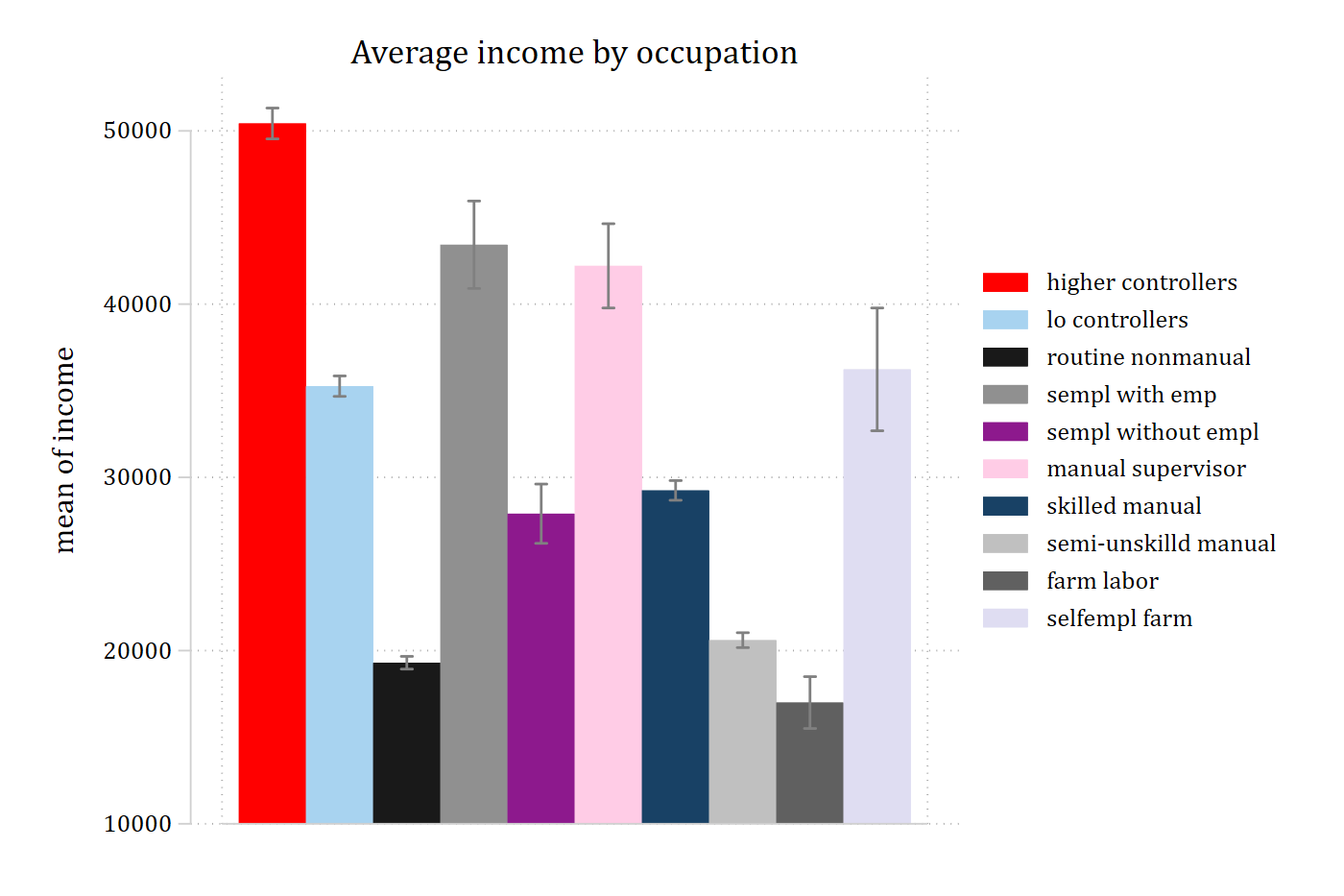
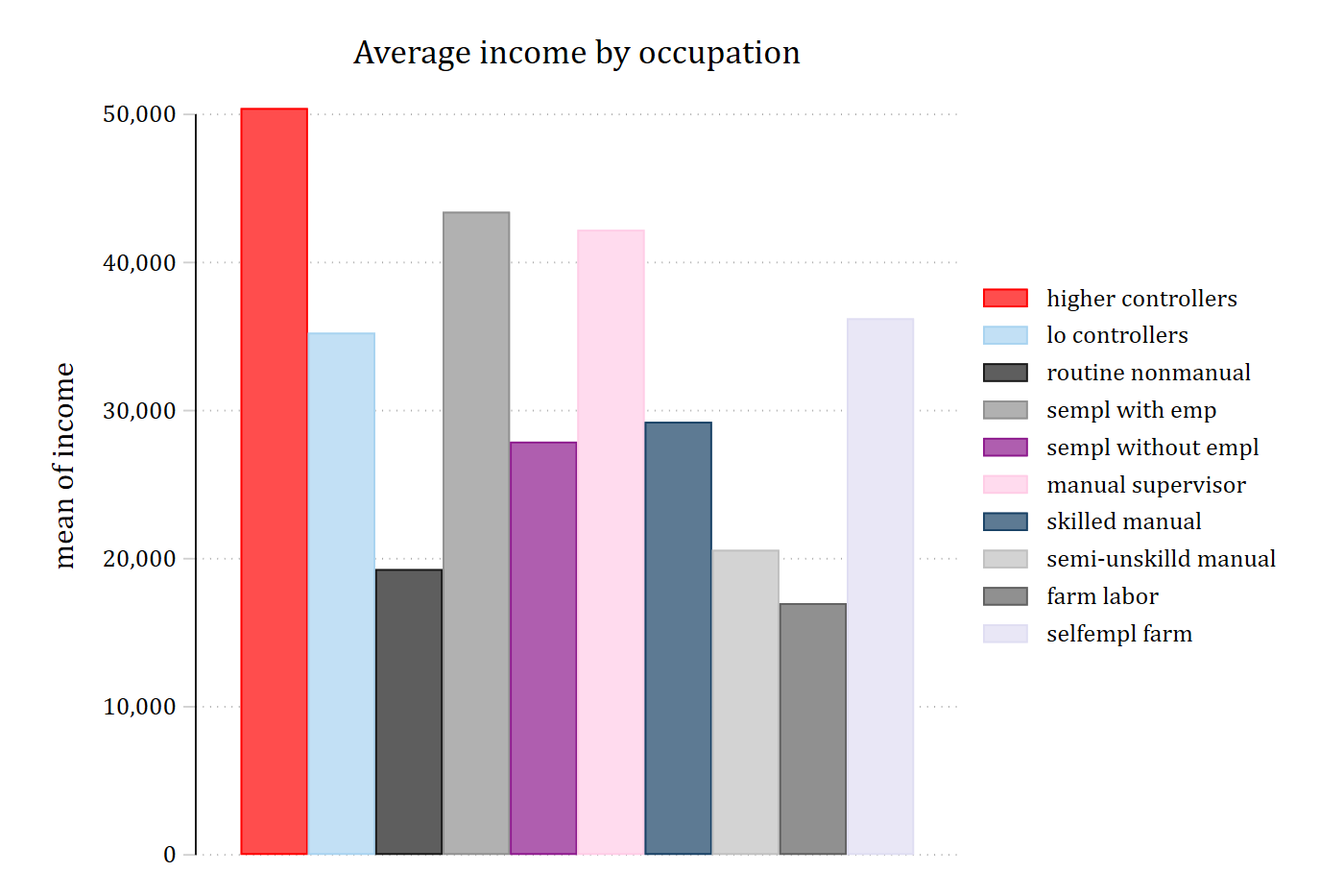
cleanplots ex updates

diff --git a/docs/cleanplots/examples.html b/docs/cleanplots/examples.html
@@ -174,7 +174,7 @@ pre > code.sourceCode > span > a:first-child::before { text-decoration: underlin
   <li><a href="#histogram" id="toc-histogram" class="nav-link active" data-scroll-target="#histogram">Histogram</a></li>
   <li><a href="#predictions-from-an-ordinal-logit-with-dashed-confidence-intervals" id="toc-predictions-from-an-ordinal-logit-with-dashed-confidence-intervals" class="nav-link" data-scroll-target="#predictions-from-an-ordinal-logit-with-dashed-confidence-intervals">Predictions from an ordinal logit with dashed confidence intervals</a></li>
   <li><a href="#predictions-at-combinations-of-two-nominal-variables" id="toc-predictions-at-combinations-of-two-nominal-variables" class="nav-link" data-scroll-target="#predictions-at-combinations-of-two-nominal-variables">Predictions at combinations of two nominal variables</a></li>
-  <li><a href="#bar-chart-with-confidence-intervals" id="toc-bar-chart-with-confidence-intervals" class="nav-link" data-scroll-target="#bar-chart-with-confidence-intervals">Bar chart with confidence intervals</a></li>
+  <li><a href="#bar-chart" id="toc-bar-chart" class="nav-link" data-scroll-target="#bar-chart">Bar chart</a></li>
   <li><a href="#residual-and-influence-plot" id="toc-residual-and-influence-plot" class="nav-link" data-scroll-target="#residual-and-influence-plot">Residual and influence plot</a></li>
   <li><a href="#lowess-plot" id="toc-lowess-plot" class="nav-link" data-scroll-target="#lowess-plot">Lowess plot</a></li>
   <li><a href="#all-ten-colors" id="toc-all-ten-colors" class="nav-link" data-scroll-target="#all-ten-colors">All ten colors</a></li>
@@ -191,7 +191,7 @@ pre > code.sourceCode > span > a:first-child::before { text-decoration: underlin
 <header id="title-block-header" class="quarto-title-block default">
 <div class="quarto-title">
 <h1 class="title">Examples</h1>
-<p class="subtitle lead">Six common graphs in cleanplots and in Stata’s default scheme</p>
+<p class="subtitle lead">Six common graphs in cleanplots and in Stata’s classic s2color scheme</p>
 </div>
 
 
@@ -208,7 +208,7 @@ pre > code.sourceCode > span > a:first-child::before { text-decoration: underlin
 </header>
 
 
-<p>Each example below draws the same graph twice: once with <code>scheme(cleanplots)</code> and once with <code>scheme(stcolor)</code>, Stata’s default scheme since Stata 18 (substitute <code>s2color</code> for the default of earlier versions). Nothing else about the commands changes. The graphs are drawn with the data from <a href="../usetdm/index.html"><code>usetdm</code></a>, so every example can be run as shown. With <code>set scheme cleanplots, perm</code> in place, the <code>scheme()</code> option is not needed.</p>
+<p>Each example below draws the same graph twice: once with <code>scheme(cleanplots)</code> and once with <code>scheme(s2color)</code>, Stata’s long-standing default scheme (Stata 18 introduced <code>stcolor</code> as the new default; <code>s2color</code> is used here because the contrast is clearer). Nothing else about the commands changes. The graphs are drawn with the data from <a href="../usetdm/index.html"><code>usetdm</code></a>, so every example can be run as shown. With <code>set scheme cleanplots, perm</code> in place, the <code>scheme()</code> option is not needed.</p>
 <section id="histogram" class="level2">
 <h2 class="anchored" data-anchor-id="histogram">Histogram</h2>
 <div class="stata-run">
@@ -219,13 +219,12 @@ pre > code.sourceCode > span > a:first-child::before { text-decoration: underlin
 <div class="code-copy-outer-scaffold"><div class="sourceCode" id="cb3"><pre class="sourceCode stata stata-cmd code-with-copy"><code class="sourceCode stata"><span id="cb3-1"><a href="#cb3-1" aria-hidden="true" tabindex="-1"></a><span class="kw">hist</span> vidtv, <span class="kw">percent</span> <span class="dv">scheme</span>(cleanplots)</span></code></pre></div><button title="Copy to Clipboard" class="code-copy-button"><i class="bi"></i></button></div>
 <pre class="stata-output"><code>(bin=36, start=0, width=4.6666667)</code></pre>
 <div class="code-copy-outer-scaffold"><div class="sourceCode" id="cb5"><pre class="sourceCode stata stata-cmd code-with-copy"><code class="sourceCode stata"><span id="cb5-1"><a href="#cb5-1" aria-hidden="true" tabindex="-1"></a><span class="kw">graph</span> <span class="kw">export</span> <span class="st">"fig/ex-hist-cleanplots.png"</span>, <span class="kw">replace</span> <span class="kw">width</span>(1400)</span></code></pre></div><button title="Copy to Clipboard" class="code-copy-button"><i class="bi"></i></button></div>
-<pre class="stata-output"><code>(file fig/ex-hist-cleanplots.png not found)
-file fig/ex-hist-cleanplots.png saved as PNG format</code></pre>
-<div class="code-copy-outer-scaffold"><div class="sourceCode" id="cb7"><pre class="sourceCode stata stata-cmd code-with-copy"><code class="sourceCode stata"><span id="cb7-1"><a href="#cb7-1" aria-hidden="true" tabindex="-1"></a><span class="kw">hist</span> vidtv, <span class="kw">percent</span> <span class="dv">scheme</span>(stcolor)</span></code></pre></div><button title="Copy to Clipboard" class="code-copy-button"><i class="bi"></i></button></div>
+<pre class="stata-output"><code>file fig/ex-hist-cleanplots.png saved as PNG format</code></pre>
+<div class="code-copy-outer-scaffold"><div class="sourceCode" id="cb7"><pre class="sourceCode stata stata-cmd code-with-copy"><code class="sourceCode stata"><span id="cb7-1"><a href="#cb7-1" aria-hidden="true" tabindex="-1"></a><span class="kw">hist</span> vidtv, <span class="kw">percent</span> <span class="dv">scheme</span>(s2color)</span></code></pre></div><button title="Copy to Clipboard" class="code-copy-button"><i class="bi"></i></button></div>
 <pre class="stata-output"><code>(bin=36, start=0, width=4.6666667)</code></pre>
-<div class="code-copy-outer-scaffold"><div class="sourceCode" id="cb9"><pre class="sourceCode stata stata-cmd code-with-copy"><code class="sourceCode stata"><span id="cb9-1"><a href="#cb9-1" aria-hidden="true" tabindex="-1"></a><span class="kw">graph</span> <span class="kw">export</span> <span class="st">"fig/ex-hist-stcolor.png"</span>, <span class="kw">replace</span> <span class="kw">width</span>(1400)</span></code></pre></div><button title="Copy to Clipboard" class="code-copy-button"><i class="bi"></i></button></div>
-<pre class="stata-output"><code>(file fig/ex-hist-stcolor.png not found)
-file fig/ex-hist-stcolor.png saved as PNG format</code></pre>
+<div class="code-copy-outer-scaffold"><div class="sourceCode" id="cb9"><pre class="sourceCode stata stata-cmd code-with-copy"><code class="sourceCode stata"><span id="cb9-1"><a href="#cb9-1" aria-hidden="true" tabindex="-1"></a><span class="kw">graph</span> <span class="kw">export</span> <span class="st">"fig/ex-hist-s2color.png"</span>, <span class="kw">replace</span> <span class="kw">width</span>(1400)</span></code></pre></div><button title="Copy to Clipboard" class="code-copy-button"><i class="bi"></i></button></div>
+<pre class="stata-output"><code>(file fig/ex-hist-s2color.png not found)
+file fig/ex-hist-s2color.png saved as PNG format</code></pre>
 </div>
 <div class="quarto-layout-panel" data-layout-ncol="2">
 <div class="quarto-layout-row">
@@ -240,8 +239,8 @@ file fig/ex-hist-stcolor.png saved as PNG format</code></pre>
 <div class="quarto-layout-cell" style="flex-basis: 50.0%;justify-content: flex-start;">
 <div class="quarto-figure quarto-figure-center">
 <figure class="figure">
-<p><img src="fig/ex-hist-stcolor.png" class="img-fluid figure-img" alt="The same histogram with Stata's default stcolor scheme."></p>
-<figcaption>stcolor</figcaption>
+<p><img src="fig/ex-hist-s2color.png" class="img-fluid figure-img" alt="The same histogram in the s2color scheme."></p>
+<figcaption>s2color</figcaption>
 </figure>
 </div>
 </div>
@@ -258,14 +257,13 @@ file fig/ex-hist-stcolor.png saved as PNG format</code></pre>
 <span id="cb13-2"><a href="#cb13-2" aria-hidden="true" tabindex="-1"></a>    <span class="bn">legend</span>(<span class="kw">order</span>(6 <span class="st">"Poor"</span> 7 <span class="st">"Fair"</span> 8 <span class="st">"Good"</span> 9 <span class="st">"Very Good"</span> 10 <span class="st">"Excellent"</span>))</span></code></pre></div><button title="Copy to Clipboard" class="code-copy-button"><i class="bi"></i></button></div>
 <pre class="stata-output"><code>Variables that uniquely identify margins: orole</code></pre>
 <div class="code-copy-outer-scaffold"><div class="sourceCode" id="cb15"><pre class="sourceCode stata stata-cmd code-with-copy"><code class="sourceCode stata"><span id="cb15-1"><a href="#cb15-1" aria-hidden="true" tabindex="-1"></a><span class="kw">graph</span> <span class="kw">export</span> <span class="st">"fig/ex-ologit-cleanplots.png"</span>, <span class="kw">replace</span> <span class="kw">width</span>(1400)</span></code></pre></div><button title="Copy to Clipboard" class="code-copy-button"><i class="bi"></i></button></div>
-<pre class="stata-output"><code>(file fig/ex-ologit-cleanplots.png not found)
-file fig/ex-ologit-cleanplots.png saved as PNG format</code></pre>
-<div class="code-copy-outer-scaffold"><div class="sourceCode" id="cb17"><pre class="sourceCode stata stata-cmd code-with-copy"><code class="sourceCode stata"><span id="cb17-1"><a href="#cb17-1" aria-hidden="true" tabindex="-1"></a>marginsplot, recastci(rline) ciopts(lpattern(<span class="kw">dash</span>) <span class="kw">color</span>(*.5)) <span class="dv">scheme</span>(stcolor) <span class="co">///</span></span>
+<pre class="stata-output"><code>file fig/ex-ologit-cleanplots.png saved as PNG format</code></pre>
+<div class="code-copy-outer-scaffold"><div class="sourceCode" id="cb17"><pre class="sourceCode stata stata-cmd code-with-copy"><code class="sourceCode stata"><span id="cb17-1"><a href="#cb17-1" aria-hidden="true" tabindex="-1"></a>marginsplot, recastci(rline) ciopts(lpattern(<span class="kw">dash</span>) <span class="kw">color</span>(*.5)) <span class="dv">scheme</span>(s2color) <span class="co">///</span></span>
 <span id="cb17-2"><a href="#cb17-2" aria-hidden="true" tabindex="-1"></a>    <span class="bn">legend</span>(<span class="kw">order</span>(6 <span class="st">"Poor"</span> 7 <span class="st">"Fair"</span> 8 <span class="st">"Good"</span> 9 <span class="st">"Very Good"</span> 10 <span class="st">"Excellent"</span>))</span></code></pre></div><button title="Copy to Clipboard" class="code-copy-button"><i class="bi"></i></button></div>
 <pre class="stata-output"><code>Variables that uniquely identify margins: orole</code></pre>
-<div class="code-copy-outer-scaffold"><div class="sourceCode" id="cb19"><pre class="sourceCode stata stata-cmd code-with-copy"><code class="sourceCode stata"><span id="cb19-1"><a href="#cb19-1" aria-hidden="true" tabindex="-1"></a><span class="kw">graph</span> <span class="kw">export</span> <span class="st">"fig/ex-ologit-stcolor.png"</span>, <span class="kw">replace</span> <span class="kw">width</span>(1400)</span></code></pre></div><button title="Copy to Clipboard" class="code-copy-button"><i class="bi"></i></button></div>
-<pre class="stata-output"><code>(file fig/ex-ologit-stcolor.png not found)
-file fig/ex-ologit-stcolor.png saved as PNG format</code></pre>
+<div class="code-copy-outer-scaffold"><div class="sourceCode" id="cb19"><pre class="sourceCode stata stata-cmd code-with-copy"><code class="sourceCode stata"><span id="cb19-1"><a href="#cb19-1" aria-hidden="true" tabindex="-1"></a><span class="kw">graph</span> <span class="kw">export</span> <span class="st">"fig/ex-ologit-s2color.png"</span>, <span class="kw">replace</span> <span class="kw">width</span>(1400)</span></code></pre></div><button title="Copy to Clipboard" class="code-copy-button"><i class="bi"></i></button></div>
+<pre class="stata-output"><code>(file fig/ex-ologit-s2color.png not found)
+file fig/ex-ologit-s2color.png saved as PNG format</code></pre>
 </div>
 <div class="quarto-layout-panel" data-layout-ncol="2">
 <div class="quarto-layout-row">
@@ -280,8 +278,8 @@ file fig/ex-ologit-stcolor.png saved as PNG format</code></pre>
 <div class="quarto-layout-cell" style="flex-basis: 50.0%;justify-content: flex-start;">
 <div class="quarto-figure quarto-figure-center">
 <figure class="figure">
-<p><img src="fig/ex-ologit-stcolor.png" class="img-fluid figure-img" alt="The same plot in the stcolor scheme."></p>
-<figcaption>stcolor</figcaption>
+<p><img src="fig/ex-ologit-s2color.png" class="img-fluid figure-img" alt="The same plot in the s2color scheme."></p>
+<figcaption>s2color</figcaption>
 </figure>
 </div>
 </div>
@@ -297,13 +295,12 @@ file fig/ex-ologit-stcolor.png saved as PNG format</code></pre>
 <div class="code-copy-outer-scaffold"><div class="sourceCode" id="cb23"><pre class="sourceCode stata stata-cmd code-with-copy"><code class="sourceCode stata"><span id="cb23-1"><a href="#cb23-1" aria-hidden="true" tabindex="-1"></a>marginsplot, <span class="kw">recast</span>(<span class="kw">scatter</span>) x(educ) <span class="dv">scheme</span>(cleanplots)</span></code></pre></div><button title="Copy to Clipboard" class="code-copy-button"><i class="bi"></i></button></div>
 <pre class="stata-output"><code>Variables that uniquely identify margins: woman educ</code></pre>
 <div class="code-copy-outer-scaffold"><div class="sourceCode" id="cb25"><pre class="sourceCode stata stata-cmd code-with-copy"><code class="sourceCode stata"><span id="cb25-1"><a href="#cb25-1" aria-hidden="true" tabindex="-1"></a><span class="kw">graph</span> <span class="kw">export</span> <span class="st">"fig/ex-pred-cleanplots.png"</span>, <span class="kw">replace</span> <span class="kw">width</span>(1400)</span></code></pre></div><button title="Copy to Clipboard" class="code-copy-button"><i class="bi"></i></button></div>
-<pre class="stata-output"><code>(file fig/ex-pred-cleanplots.png not found)
-file fig/ex-pred-cleanplots.png saved as PNG format</code></pre>
-<div class="code-copy-outer-scaffold"><div class="sourceCode" id="cb27"><pre class="sourceCode stata stata-cmd code-with-copy"><code class="sourceCode stata"><span id="cb27-1"><a href="#cb27-1" aria-hidden="true" tabindex="-1"></a>marginsplot, <span class="kw">recast</span>(<span class="kw">scatter</span>) x(educ) <span class="dv">scheme</span>(stcolor)</span></code></pre></div><button title="Copy to Clipboard" class="code-copy-button"><i class="bi"></i></button></div>
+<pre class="stata-output"><code>file fig/ex-pred-cleanplots.png saved as PNG format</code></pre>
+<div class="code-copy-outer-scaffold"><div class="sourceCode" id="cb27"><pre class="sourceCode stata stata-cmd code-with-copy"><code class="sourceCode stata"><span id="cb27-1"><a href="#cb27-1" aria-hidden="true" tabindex="-1"></a>marginsplot, <span class="kw">recast</span>(<span class="kw">scatter</span>) x(educ) <span class="dv">scheme</span>(s2color)</span></code></pre></div><button title="Copy to Clipboard" class="code-copy-button"><i class="bi"></i></button></div>
 <pre class="stata-output"><code>Variables that uniquely identify margins: woman educ</code></pre>
-<div class="code-copy-outer-scaffold"><div class="sourceCode" id="cb29"><pre class="sourceCode stata stata-cmd code-with-copy"><code class="sourceCode stata"><span id="cb29-1"><a href="#cb29-1" aria-hidden="true" tabindex="-1"></a><span class="kw">graph</span> <span class="kw">export</span> <span class="st">"fig/ex-pred-stcolor.png"</span>, <span class="kw">replace</span> <span class="kw">width</span>(1400)</span></code></pre></div><button title="Copy to Clipboard" class="code-copy-button"><i class="bi"></i></button></div>
-<pre class="stata-output"><code>(file fig/ex-pred-stcolor.png not found)
-file fig/ex-pred-stcolor.png saved as PNG format</code></pre>
+<div class="code-copy-outer-scaffold"><div class="sourceCode" id="cb29"><pre class="sourceCode stata stata-cmd code-with-copy"><code class="sourceCode stata"><span id="cb29-1"><a href="#cb29-1" aria-hidden="true" tabindex="-1"></a><span class="kw">graph</span> <span class="kw">export</span> <span class="st">"fig/ex-pred-s2color.png"</span>, <span class="kw">replace</span> <span class="kw">width</span>(1400)</span></code></pre></div><button title="Copy to Clipboard" class="code-copy-button"><i class="bi"></i></button></div>
+<pre class="stata-output"><code>(file fig/ex-pred-s2color.png not found)
+file fig/ex-pred-s2color.png saved as PNG format</code></pre>
 </div>
 <div class="quarto-layout-panel" data-layout-ncol="2">
 <div class="quarto-layout-row">
@@ -318,37 +315,36 @@ file fig/ex-pred-stcolor.png saved as PNG format</code></pre>
 <div class="quarto-layout-cell" style="flex-basis: 50.0%;justify-content: flex-start;">
 <div class="quarto-figure quarto-figure-center">
 <figure class="figure">
-<p><img src="fig/ex-pred-stcolor.png" class="img-fluid figure-img" alt="The same plot in the stcolor scheme."></p>
-<figcaption>stcolor</figcaption>
+<p><img src="fig/ex-pred-s2color.png" class="img-fluid figure-img" alt="The same plot in the s2color scheme."></p>
+<figcaption>s2color</figcaption>
 </figure>
 </div>
 </div>
 </div>
 </div>
 </section>
-<section id="bar-chart-with-confidence-intervals" class="level2">
-<h2 class="anchored" data-anchor-id="bar-chart-with-confidence-intervals">Bar chart with confidence intervals</h2>
-<p><code>cibar</code> is a user-written command (<code>ssc install cibar</code>); <code>cleanplots</code> uses its softer palette for the bars.</p>
+<section id="bar-chart" class="level2">
+<h2 class="anchored" data-anchor-id="bar-chart">Bar chart</h2>
+<p><code>cleanplots</code> uses its softer palette for the bars.</p>
 <div class="stata-run">
 <div class="code-copy-outer-scaffold"><div class="sourceCode" id="cb31"><pre class="sourceCode stata stata-cmd code-with-copy"><code class="sourceCode stata"><span id="cb31-1"><a href="#cb31-1" aria-hidden="true" tabindex="-1"></a><span class="kw">use</span> <span class="st">"https://tdmize.github.io/data/data/cda_gss"</span>, <span class="kw">clear</span></span></code></pre></div><button title="Copy to Clipboard" class="code-copy-button"><i class="bi"></i></button></div>
 <pre class="stata-output"><code>(cda_gss.dta |  GSS 1972-2021 CDA - Categorical Data Analysis | date created 2023)
 
 . </code></pre>
-<div class="code-copy-outer-scaffold"><div class="sourceCode" id="cb33"><pre class="sourceCode stata stata-cmd code-with-copy"><code class="sourceCode stata"><span id="cb33-1"><a href="#cb33-1" aria-hidden="true" tabindex="-1"></a>cibar income, over1(degree) over2(woman) graphop(<span class="dv">scheme</span>(cleanplots))</span>
+<div class="code-copy-outer-scaffold"><div class="sourceCode" id="cb33"><pre class="sourceCode stata stata-cmd code-with-copy"><code class="sourceCode stata"><span id="cb33-1"><a href="#cb33-1" aria-hidden="true" tabindex="-1"></a><span class="kw">graph</span> <span class="bn">bar</span> income, <span class="bn">over</span>(degree) <span class="bn">over</span>(woman) asyvars <span class="dv">scheme</span>(cleanplots)</span>
 <span id="cb33-2"><a href="#cb33-2" aria-hidden="true" tabindex="-1"></a><span class="kw">graph</span> <span class="kw">export</span> <span class="st">"fig/ex-bar-cleanplots.png"</span>, <span class="kw">replace</span> <span class="kw">width</span>(1400)</span></code></pre></div><button title="Copy to Clipboard" class="code-copy-button"><i class="bi"></i></button></div>
-<pre class="stata-output"><code>(file fig/ex-bar-cleanplots.png not found)
-file fig/ex-bar-cleanplots.png saved as PNG format</code></pre>
-<div class="code-copy-outer-scaffold"><div class="sourceCode" id="cb35"><pre class="sourceCode stata stata-cmd code-with-copy"><code class="sourceCode stata"><span id="cb35-1"><a href="#cb35-1" aria-hidden="true" tabindex="-1"></a>cibar income, over1(degree) over2(woman) graphop(<span class="dv">scheme</span>(stcolor))</span>
-<span id="cb35-2"><a href="#cb35-2" aria-hidden="true" tabindex="-1"></a><span class="kw">graph</span> <span class="kw">export</span> <span class="st">"fig/ex-bar-stcolor.png"</span>, <span class="kw">replace</span> <span class="kw">width</span>(1400)</span></code></pre></div><button title="Copy to Clipboard" class="code-copy-button"><i class="bi"></i></button></div>
-<pre class="stata-output"><code>(file fig/ex-bar-stcolor.png not found)
-file fig/ex-bar-stcolor.png saved as PNG format</code></pre>
+<pre class="stata-output"><code>file fig/ex-bar-cleanplots.png saved as PNG format</code></pre>
+<div class="code-copy-outer-scaffold"><div class="sourceCode" id="cb35"><pre class="sourceCode stata stata-cmd code-with-copy"><code class="sourceCode stata"><span id="cb35-1"><a href="#cb35-1" aria-hidden="true" tabindex="-1"></a><span class="kw">graph</span> <span class="bn">bar</span> income, <span class="bn">over</span>(degree) <span class="bn">over</span>(woman) asyvars <span class="dv">scheme</span>(s2color)</span>
+<span id="cb35-2"><a href="#cb35-2" aria-hidden="true" tabindex="-1"></a><span class="kw">graph</span> <span class="kw">export</span> <span class="st">"fig/ex-bar-s2color.png"</span>, <span class="kw">replace</span> <span class="kw">width</span>(1400)</span></code></pre></div><button title="Copy to Clipboard" class="code-copy-button"><i class="bi"></i></button></div>
+<pre class="stata-output"><code>(file fig/ex-bar-s2color.png not found)
+file fig/ex-bar-s2color.png saved as PNG format</code></pre>
 </div>
 <div class="quarto-layout-panel" data-layout-ncol="2">
 <div class="quarto-layout-row">
 <div class="quarto-layout-cell" style="flex-basis: 50.0%;justify-content: flex-start;">
 <div class="quarto-figure quarto-figure-center">
 <figure class="figure">
-<p><img src="fig/ex-bar-cleanplots.png" class="img-fluid figure-img" alt="Bar chart of mean income by degree and gender with confidence intervals, in the cleanplots scheme: softer bar colors and a light grid."></p>
+<p><img src="fig/ex-bar-cleanplots.png" class="img-fluid figure-img" alt="Bar chart of mean income by degree, grouped by gender, in the cleanplots scheme: softer bar colors and a light grid."></p>
 <figcaption>cleanplots</figcaption>
 </figure>
 </div>
@@ -356,8 +352,8 @@ file fig/ex-bar-stcolor.png saved as PNG format</code></pre>
 <div class="quarto-layout-cell" style="flex-basis: 50.0%;justify-content: flex-start;">
 <div class="quarto-figure quarto-figure-center">
 <figure class="figure">
-<p><img src="fig/ex-bar-stcolor.png" class="img-fluid figure-img" alt="The same bar chart in the stcolor scheme."></p>
-<figcaption>stcolor</figcaption>
+<p><img src="fig/ex-bar-s2color.png" class="img-fluid figure-img" alt="The same bar chart in the s2color scheme."></p>
+<figcaption>s2color</figcaption>
 </figure>
 </div>
 </div>
@@ -382,15 +378,14 @@ file fig/ex-bar-stcolor.png saved as PNG format</code></pre>
 (analytic weights assumed)
 (analytic weights assumed)</code></pre>
 <div class="code-copy-outer-scaffold"><div class="sourceCode" id="cb43"><pre class="sourceCode stata stata-cmd code-with-copy"><code class="sourceCode stata"><span id="cb43-1"><a href="#cb43-1" aria-hidden="true" tabindex="-1"></a><span class="kw">graph</span> <span class="kw">export</span> <span class="st">"fig/ex-resid-cleanplots.png"</span>, <span class="kw">replace</span> <span class="kw">width</span>(1400)</span></code></pre></div><button title="Copy to Clipboard" class="code-copy-button"><i class="bi"></i></button></div>
-<pre class="stata-output"><code>(file fig/ex-resid-cleanplots.png not found)
-file fig/ex-resid-cleanplots.png saved as PNG format</code></pre>
-<div class="code-copy-outer-scaffold"><div class="sourceCode" id="cb45"><pre class="sourceCode stata stata-cmd code-with-copy"><code class="sourceCode stata"><span id="cb45-1"><a href="#cb45-1" aria-hidden="true" tabindex="-1"></a><span class="kw">twoway</span> <span class="kw">scatter</span> residstd <span class="fu">index</span> [<span class="fu">w</span>=influence], <span class="dv">scheme</span>(stcolor)</span></code></pre></div><button title="Copy to Clipboard" class="code-copy-button"><i class="bi"></i></button></div>
+<pre class="stata-output"><code>file fig/ex-resid-cleanplots.png saved as PNG format</code></pre>
+<div class="code-copy-outer-scaffold"><div class="sourceCode" id="cb45"><pre class="sourceCode stata stata-cmd code-with-copy"><code class="sourceCode stata"><span id="cb45-1"><a href="#cb45-1" aria-hidden="true" tabindex="-1"></a><span class="kw">twoway</span> <span class="kw">scatter</span> residstd <span class="fu">index</span> [<span class="fu">w</span>=influence], <span class="dv">scheme</span>(s2color)</span></code></pre></div><button title="Copy to Clipboard" class="code-copy-button"><i class="bi"></i></button></div>
 <pre class="stata-output"><code>(analytic weights assumed)
 (analytic weights assumed)
 (analytic weights assumed)</code></pre>
-<div class="code-copy-outer-scaffold"><div class="sourceCode" id="cb47"><pre class="sourceCode stata stata-cmd code-with-copy"><code class="sourceCode stata"><span id="cb47-1"><a href="#cb47-1" aria-hidden="true" tabindex="-1"></a><span class="kw">graph</span> <span class="kw">export</span> <span class="st">"fig/ex-resid-stcolor.png"</span>, <span class="kw">replace</span> <span class="kw">width</span>(1400)</span></code></pre></div><button title="Copy to Clipboard" class="code-copy-button"><i class="bi"></i></button></div>
-<pre class="stata-output"><code>(file fig/ex-resid-stcolor.png not found)
-file fig/ex-resid-stcolor.png saved as PNG format</code></pre>
+<div class="code-copy-outer-scaffold"><div class="sourceCode" id="cb47"><pre class="sourceCode stata stata-cmd code-with-copy"><code class="sourceCode stata"><span id="cb47-1"><a href="#cb47-1" aria-hidden="true" tabindex="-1"></a><span class="kw">graph</span> <span class="kw">export</span> <span class="st">"fig/ex-resid-s2color.png"</span>, <span class="kw">replace</span> <span class="kw">width</span>(1400)</span></code></pre></div><button title="Copy to Clipboard" class="code-copy-button"><i class="bi"></i></button></div>
+<pre class="stata-output"><code>(file fig/ex-resid-s2color.png not found)
+file fig/ex-resid-s2color.png saved as PNG format</code></pre>
 </div>
 <div class="quarto-layout-panel" data-layout-ncol="2">
 <div class="quarto-layout-row">
@@ -405,8 +400,8 @@ file fig/ex-resid-stcolor.png saved as PNG format</code></pre>
 <div class="quarto-layout-cell" style="flex-basis: 50.0%;justify-content: flex-start;">
 <div class="quarto-figure quarto-figure-center">
 <figure class="figure">
-<p><img src="fig/ex-resid-stcolor.png" class="img-fluid figure-img" alt="The same plot in the stcolor scheme."></p>
-<figcaption>stcolor</figcaption>
+<p><img src="fig/ex-resid-s2color.png" class="img-fluid figure-img" alt="The same plot in the s2color scheme."></p>
+<figcaption>s2color</figcaption>
 </figure>
 </div>
 </div>
@@ -422,12 +417,11 @@ file fig/ex-resid-stcolor.png saved as PNG format</code></pre>
 <pre class="stata-output"><code>. </code></pre>
 <div class="code-copy-outer-scaffold"><div class="sourceCode" id="cb53"><pre class="sourceCode stata stata-cmd code-with-copy"><code class="sourceCode stata"><span id="cb53-1"><a href="#cb53-1" aria-hidden="true" tabindex="-1"></a><span class="kw">lowess</span> jobimp phd, <span class="dv">scheme</span>(cleanplots)</span>
 <span id="cb53-2"><a href="#cb53-2" aria-hidden="true" tabindex="-1"></a><span class="kw">graph</span> <span class="kw">export</span> <span class="st">"fig/ex-lowess-cleanplots.png"</span>, <span class="kw">replace</span> <span class="kw">width</span>(1400)</span></code></pre></div><button title="Copy to Clipboard" class="code-copy-button"><i class="bi"></i></button></div>
-<pre class="stata-output"><code>(file fig/ex-lowess-cleanplots.png not found)
-file fig/ex-lowess-cleanplots.png saved as PNG format</code></pre>
-<div class="code-copy-outer-scaffold"><div class="sourceCode" id="cb55"><pre class="sourceCode stata stata-cmd code-with-copy"><code class="sourceCode stata"><span id="cb55-1"><a href="#cb55-1" aria-hidden="true" tabindex="-1"></a><span class="kw">lowess</span> jobimp phd, <span class="dv">scheme</span>(stcolor)</span>
-<span id="cb55-2"><a href="#cb55-2" aria-hidden="true" tabindex="-1"></a><span class="kw">graph</span> <span class="kw">export</span> <span class="st">"fig/ex-lowess-stcolor.png"</span>, <span class="kw">replace</span> <span class="kw">width</span>(1400)</span></code></pre></div><button title="Copy to Clipboard" class="code-copy-button"><i class="bi"></i></button></div>
-<pre class="stata-output"><code>(file fig/ex-lowess-stcolor.png not found)
-file fig/ex-lowess-stcolor.png saved as PNG format</code></pre>
+<pre class="stata-output"><code>file fig/ex-lowess-cleanplots.png saved as PNG format</code></pre>
+<div class="code-copy-outer-scaffold"><div class="sourceCode" id="cb55"><pre class="sourceCode stata stata-cmd code-with-copy"><code class="sourceCode stata"><span id="cb55-1"><a href="#cb55-1" aria-hidden="true" tabindex="-1"></a><span class="kw">lowess</span> jobimp phd, <span class="dv">scheme</span>(s2color)</span>
+<span id="cb55-2"><a href="#cb55-2" aria-hidden="true" tabindex="-1"></a><span class="kw">graph</span> <span class="kw">export</span> <span class="st">"fig/ex-lowess-s2color.png"</span>, <span class="kw">replace</span> <span class="kw">width</span>(1400)</span></code></pre></div><button title="Copy to Clipboard" class="code-copy-button"><i class="bi"></i></button></div>
+<pre class="stata-output"><code>(file fig/ex-lowess-s2color.png not found)
+file fig/ex-lowess-s2color.png saved as PNG format</code></pre>
 </div>
 <div class="quarto-layout-panel" data-layout-ncol="2">
 <div class="quarto-layout-row">
@@ -442,8 +436,8 @@ file fig/ex-lowess-stcolor.png saved as PNG format</code></pre>
 <div class="quarto-layout-cell" style="flex-basis: 50.0%;justify-content: flex-start;">
 <div class="quarto-figure quarto-figure-center">
 <figure class="figure">
-<p><img src="fig/ex-lowess-stcolor.png" class="img-fluid figure-img" alt="The same lowess plot in the stcolor scheme."></p>
-<figcaption>stcolor</figcaption>
+<p><img src="fig/ex-lowess-s2color.png" class="img-fluid figure-img" alt="The same lowess plot in the s2color scheme."></p>
+<figcaption>s2color</figcaption>
 </figure>
 </div>
 </div>
@@ -470,14 +464,13 @@ file fig/ex-lowess-stcolor.png saved as PNG format</code></pre>
 <span id="cb59-10"><a href="#cb59-10" aria-hidden="true" tabindex="-1"></a>       <span class="kw">scatter</span> income occprest <span class="kw">if</span> isco88cat == 10, msize(large) || <span class="co">///</span></span>
 <span id="cb59-11"><a href="#cb59-11" aria-hidden="true" tabindex="-1"></a>       , <span class="dv">scheme</span>(cleanplots)</span>
 <span id="cb59-12"><a href="#cb59-12" aria-hidden="true" tabindex="-1"></a><span class="kw">graph</span> <span class="kw">export</span> <span class="st">"fig/ex-ten-scatter-cleanplots.png"</span>, <span class="kw">replace</span> <span class="kw">width</span>(1400)</span></code></pre></div><button title="Copy to Clipboard" class="code-copy-button"><i class="bi"></i></button></div>
-<pre class="stata-output"><code>(file fig/ex-ten-scatter-cleanplots.png not found)
-file fig/ex-ten-scatter-cleanplots.png saved as PNG format
+<pre class="stata-output"><code>file fig/ex-ten-scatter-cleanplots.png saved as PNG format
 
 . </code></pre>
-<div class="code-copy-outer-scaffold"><div class="sourceCode" id="cb61"><pre class="sourceCode stata stata-cmd code-with-copy"><code class="sourceCode stata"><span id="cb61-1"><a href="#cb61-1" aria-hidden="true" tabindex="-1"></a>cibar income, <span class="bn">over</span>(isco88cat) graphop(<span class="dv">scheme</span>(cleanplots) <span class="bn">title</span>(<span class="st">"Average income by occupation"</span>))</span>
-<span id="cb61-2"><a href="#cb61-2" aria-hidden="true" tabindex="-1"></a><span class="kw">graph</span> <span class="kw">export</span> <span class="st">"fig/ex-ten-bar-cleanplots.png"</span>, <span class="kw">replace</span> <span class="kw">width</span>(1400)</span></code></pre></div><button title="Copy to Clipboard" class="code-copy-button"><i class="bi"></i></button></div>
-<pre class="stata-output"><code>(file fig/ex-ten-bar-cleanplots.png not found)
-file fig/ex-ten-bar-cleanplots.png saved as PNG format</code></pre>
+<div class="code-copy-outer-scaffold"><div class="sourceCode" id="cb61"><pre class="sourceCode stata stata-cmd code-with-copy"><code class="sourceCode stata"><span id="cb61-1"><a href="#cb61-1" aria-hidden="true" tabindex="-1"></a><span class="kw">graph</span> <span class="bn">bar</span> income, <span class="bn">over</span>(isco88cat) asyvars <span class="dv">scheme</span>(cleanplots) <span class="co">///</span></span>
+<span id="cb61-2"><a href="#cb61-2" aria-hidden="true" tabindex="-1"></a>    <span class="bn">title</span>(<span class="st">"Average income by occupation"</span>)</span>
+<span id="cb61-3"><a href="#cb61-3" aria-hidden="true" tabindex="-1"></a><span class="kw">graph</span> <span class="kw">export</span> <span class="st">"fig/ex-ten-bar-cleanplots.png"</span>, <span class="kw">replace</span> <span class="kw">width</span>(1400)</span></code></pre></div><button title="Copy to Clipboard" class="code-copy-button"><i class="bi"></i></button></div>
+<pre class="stata-output"><code>file fig/ex-ten-bar-cleanplots.png saved as PNG format</code></pre>
 </div>
 <div class="quarto-layout-panel" data-layout-ncol="2">
 <div class="quarto-layout-row">

diff --git a/docs/cleanplots/index.html b/docs/cleanplots/index.html
@@ -211,7 +211,7 @@ pre > code.sourceCode > span > a:first-child::before { text-decoration: underlin
 
 
 <p><code>cleanplots</code> is a Stata and R graphics scheme that changes the default look of Stata graphics and of R graphics made with ggplot. It is designed to implement data visualization best practices by default – limiting the amount of time you have to spend tweaking a graph to be maximally readable and usable. The color palette is chosen to be colorblind friendly and to work when printed in black and white, so that a single figure will do for both color and grayscale.</p>
-<p>This page covers the Stata scheme. The companion R package is documented at <a href="https://tdmize.github.io/cleanplots/">tdmize.github.io/cleanplots</a>.</p>
+<p>This page covers the Stata scheme. The companion R package is documented at <a href="https://www.trentonmize.com/software/cleanplots_r">trentonmize.com/software/cleanplots_r</a>.</p>
 <section id="installation" class="level2">
 <h2 class="anchored" data-anchor-id="installation">Installation</h2>
 <div class="code-copy-outer-scaffold"><div class="sourceCode" id="cb1"><pre class="sourceCode stata code-with-copy"><code class="sourceCode stata"><span id="cb1-1"><a href="#cb1-1" aria-hidden="true" tabindex="-1"></a>net install cleanplots, from(<span class="st">"https://tdmize.github.io/data"</span>) <span class="kw">replace</span></span></code></pre></div><button title="Copy to Clipboard" class="code-copy-button"><i class="bi"></i></button></div>
@@ -256,8 +256,7 @@ pre > code.sourceCode > span > a:first-child::before { text-decoration: underlin
 <span id="cb4-2"><a href="#cb4-2" aria-hidden="true" tabindex="-1"></a>             #143755 #C0C0C0 #404040 #D9D7F0, <span class="bn">rows</span>(5) <span class="co">///</span></span>
 <span id="cb4-3"><a href="#cb4-3" aria-hidden="true" tabindex="-1"></a>     <span class="bn">title</span>(<span class="st">"cleanplots main color palette"</span> <span class="st">"RGB and Hex codes shown"</span>)</span>
 <span id="cb4-4"><a href="#cb4-4" aria-hidden="true" tabindex="-1"></a><span class="kw">graph</span> <span class="kw">export</span> <span class="st">"fig/palette-main.png"</span>, <span class="kw">replace</span> <span class="kw">width</span>(1400)</span></code></pre></div><button title="Copy to Clipboard" class="code-copy-button"><i class="bi"></i></button></div>
-<pre class="stata-output"><code>(file fig/palette-main.png not found)
-file fig/palette-main.png saved as PNG format</code></pre>
+<pre class="stata-output"><code>file fig/palette-main.png saved as PNG format</code></pre>
 </div>
 <p><img src="fig/palette-main.png" class="img-fluid" style="width:85.0%" alt="The ten cleanplots colors as swatches in two columns of five, each labeled with its RGB and hex code: red, light blue, black, gray, purple, pink, navy, light gray, dark gray, and lavender."></p>
 <p>Bars, areas, and pies use softer, less saturated versions of the same colors:</p>
@@ -267,16 +266,14 @@ file fig/palette-main.png saved as PNG format</code></pre>
 <span id="cb6-3"><a href="#cb6-3" aria-hidden="true" tabindex="-1"></a>    <span class="bn">title</span>(<span class="st">"cleanplots softer color palette for bars and area plots"</span> <span class="co">///</span></span>
 <span id="cb6-4"><a href="#cb6-4" aria-hidden="true" tabindex="-1"></a>          <span class="st">"RGB and Hex codes shown"</span>)</span>
 <span id="cb6-5"><a href="#cb6-5" aria-hidden="true" tabindex="-1"></a><span class="kw">graph</span> <span class="kw">export</span> <span class="st">"fig/palette-bars.png"</span>, <span class="kw">replace</span> <span class="kw">width</span>(1400)</span></code></pre></div><button title="Copy to Clipboard" class="code-copy-button"><i class="bi"></i></button></div>
-<pre class="stata-output"><code>(file fig/palette-bars.png not found)
-file fig/palette-bars.png saved as PNG format</code></pre>
+<pre class="stata-output"><code>file fig/palette-bars.png saved as PNG format</code></pre>
 </div>
 <p><img src="fig/palette-bars.png" class="img-fluid" style="width:85.0%" alt="The ten softer cleanplots colors used for bars and areas, as swatches labeled with RGB and hex codes."></p>
 <p>For comparison, the <code>cleanplots</code> colors beside the colors of Stata’s current default scheme (<code>stcolor</code>, since Stata 18) and its previous default (<code>s2color</code>):</p>
 <div class="stata-run">
 <div class="code-copy-outer-scaffold"><div class="sourceCode" id="cb8"><pre class="sourceCode stata stata-cmd code-with-copy"><code class="sourceCode stata"><span id="cb8-1"><a href="#cb8-1" aria-hidden="true" tabindex="-1"></a>colorpalette, span n(10) : cleanplots / <span class="kw">st</span> / s2</span>
 <span id="cb8-2"><a href="#cb8-2" aria-hidden="true" tabindex="-1"></a><span class="kw">graph</span> <span class="kw">export</span> <span class="st">"fig/palette-compare.png"</span>, <span class="kw">replace</span> <span class="kw">width</span>(1400)</span></code></pre></div><button title="Copy to Clipboard" class="code-copy-button"><i class="bi"></i></button></div>
-<pre class="stata-output"><code>(file fig/palette-compare.png not found)
-file fig/palette-compare.png saved as PNG format</code></pre>
+<pre class="stata-output"><code>file fig/palette-compare.png saved as PNG format</code></pre>
 </div>
 <p><img src="fig/palette-compare.png" class="img-fluid" style="width:85.0%" alt="Three rows of ten color swatches: the cleanplots palette, the stcolor palette, and the s2color palette."></p>
 </section>
@@ -286,8 +283,7 @@ file fig/palette-compare.png saved as PNG format</code></pre>
 <div class="stata-run">
 <div class="code-copy-outer-scaffold"><div class="sourceCode" id="cb10"><pre class="sourceCode stata stata-cmd code-with-copy"><code class="sourceCode stata"><span id="cb10-1"><a href="#cb10-1" aria-hidden="true" tabindex="-1"></a>colorpalette, gscale span n(10) : cleanplots / <span class="kw">st</span> / s2</span>
 <span id="cb10-2"><a href="#cb10-2" aria-hidden="true" tabindex="-1"></a><span class="kw">graph</span> <span class="kw">export</span> <span class="st">"fig/palette-compare-gray.png"</span>, <span class="kw">replace</span> <span class="kw">width</span>(1400)</span></code></pre></div><button title="Copy to Clipboard" class="code-copy-button"><i class="bi"></i></button></div>
-<pre class="stata-output"><code>(file fig/palette-compare-gray.png not found)
-file fig/palette-compare-gray.png saved as PNG format</code></pre>
+<pre class="stata-output"><code>file fig/palette-compare-gray.png saved as PNG format</code></pre>
 </div>
 <p><img src="fig/palette-compare-gray.png" class="img-fluid" style="width:85.0%" alt="The same three palettes converted to grayscale; the cleanplots row alternates dark and light swatches while the other two rows have several swatches of similar gray."></p>
 <p>A plot of predicted probabilities from an ordinal logit model, in color and as it prints in grayscale; the five outcome categories remain distinguishable by their line patterns and markers:</p>
@@ -312,8 +308,7 @@ file fig/palette-compare-gray.png saved as PNG format</code></pre>
 <div class="stata-run">
 <div class="code-copy-outer-scaffold"><div class="sourceCode" id="cb12"><pre class="sourceCode stata stata-cmd code-with-copy"><code class="sourceCode stata"><span id="cb12-1"><a href="#cb12-1" aria-hidden="true" tabindex="-1"></a>colorpalette, span : cleanplots11 / cleanplots9 / cleanplots7 / cleanplots5 / cleanplots3</span>
 <span id="cb12-2"><a href="#cb12-2" aria-hidden="true" tabindex="-1"></a><span class="kw">graph</span> <span class="kw">export</span> <span class="st">"fig/palette-ordinal.png"</span>, <span class="kw">replace</span> <span class="kw">width</span>(1400)</span></code></pre></div><button title="Copy to Clipboard" class="code-copy-button"><i class="bi"></i></button></div>
-<pre class="stata-output"><code>(file fig/palette-ordinal.png not found)
-file fig/palette-ordinal.png saved as PNG format</code></pre>
+<pre class="stata-output"><code>file fig/palette-ordinal.png saved as PNG format</code></pre>
 </div>
 <p><img src="fig/palette-ordinal.png" class="img-fluid" style="width:85.0%" alt="Five rows of swatches running from light yellow through gray to dark navy, with eleven, nine, seven, five, and three steps."></p>
 <p>The same bar chart with the nominal palette and with <code>cleanplots5</code>, which matches the five ordered repair-record categories of Stata’s <code>auto</code> data:</p>
@@ -323,13 +318,11 @@ file fig/palette-ordinal.png saved as PNG format</code></pre>
 <div class="code-copy-outer-scaffold"><div class="sourceCode" id="cb16"><pre class="sourceCode stata stata-cmd code-with-copy"><code class="sourceCode stata"><span id="cb16-1"><a href="#cb16-1" aria-hidden="true" tabindex="-1"></a><span class="kw">graph</span> <span class="bn">bar</span> price, <span class="bn">over</span>(rep78) asyvars <span class="dv">scheme</span>(cleanplots) <span class="co">///</span></span>
 <span id="cb16-2"><a href="#cb16-2" aria-hidden="true" tabindex="-1"></a>    <span class="bn">title</span>(<span class="st">"Nominal colors: cleanplots"</span>)</span>
 <span id="cb16-3"><a href="#cb16-3" aria-hidden="true" tabindex="-1"></a><span class="kw">graph</span> <span class="kw">export</span> <span class="st">"fig/ordinal-nominal.png"</span>, <span class="kw">replace</span> <span class="kw">width</span>(1400)</span></code></pre></div><button title="Copy to Clipboard" class="code-copy-button"><i class="bi"></i></button></div>
-<pre class="stata-output"><code>(file fig/ordinal-nominal.png not found)
-file fig/ordinal-nominal.png saved as PNG format</code></pre>
+<pre class="stata-output"><code>file fig/ordinal-nominal.png saved as PNG format</code></pre>
 <div class="code-copy-outer-scaffold"><div class="sourceCode" id="cb18"><pre class="sourceCode stata stata-cmd code-with-copy"><code class="sourceCode stata"><span id="cb18-1"><a href="#cb18-1" aria-hidden="true" tabindex="-1"></a><span class="kw">graph</span> <span class="bn">bar</span> price, <span class="bn">over</span>(rep78) asyvars <span class="dv">scheme</span>(cleanplots5) <span class="co">///</span></span>
 <span id="cb18-2"><a href="#cb18-2" aria-hidden="true" tabindex="-1"></a>    <span class="bn">title</span>(<span class="st">"Ordinal colors: cleanplots5"</span>)</span>
 <span id="cb18-3"><a href="#cb18-3" aria-hidden="true" tabindex="-1"></a><span class="kw">graph</span> <span class="kw">export</span> <span class="st">"fig/ordinal-ordinal.png"</span>, <span class="kw">replace</span> <span class="kw">width</span>(1400)</span></code></pre></div><button title="Copy to Clipboard" class="code-copy-button"><i class="bi"></i></button></div>
-<pre class="stata-output"><code>(file fig/ordinal-ordinal.png not found)
-file fig/ordinal-ordinal.png saved as PNG format</code></pre>
+<pre class="stata-output"><code>file fig/ordinal-ordinal.png saved as PNG format</code></pre>
 </div>
 <div class="quarto-layout-panel" data-layout-ncol="2">
 <div class="quarto-layout-row">
@@ -352,7 +345,7 @@ file fig/ordinal-ordinal.png saved as PNG format</code></pre>
 </section>
 <section id="r-package-version" class="level2">
 <h2 class="anchored" data-anchor-id="r-package-version">R package version</h2>
-<p>A companion <code>cleanplots</code> package is available for R. It shares this scheme’s colors, marker symbols, line patterns, and layout for ggplot2. Read more about the R package at <a href="https://tdmize.github.io/cleanplots/">tdmize.github.io/cleanplots</a>.</p>
+<p>A companion <code>cleanplots</code> package is available for R. It shares this scheme’s colors, marker symbols, line patterns, and layout for ggplot2. Read more about the R package at <a href="https://www.trentonmize.com/software/cleanplots_r">trentonmize.com/software/cleanplots_r</a>.</p>
 </section>
 <section id="references" class="level2">
 <h2 class="anchored" data-anchor-id="references">References</h2>
